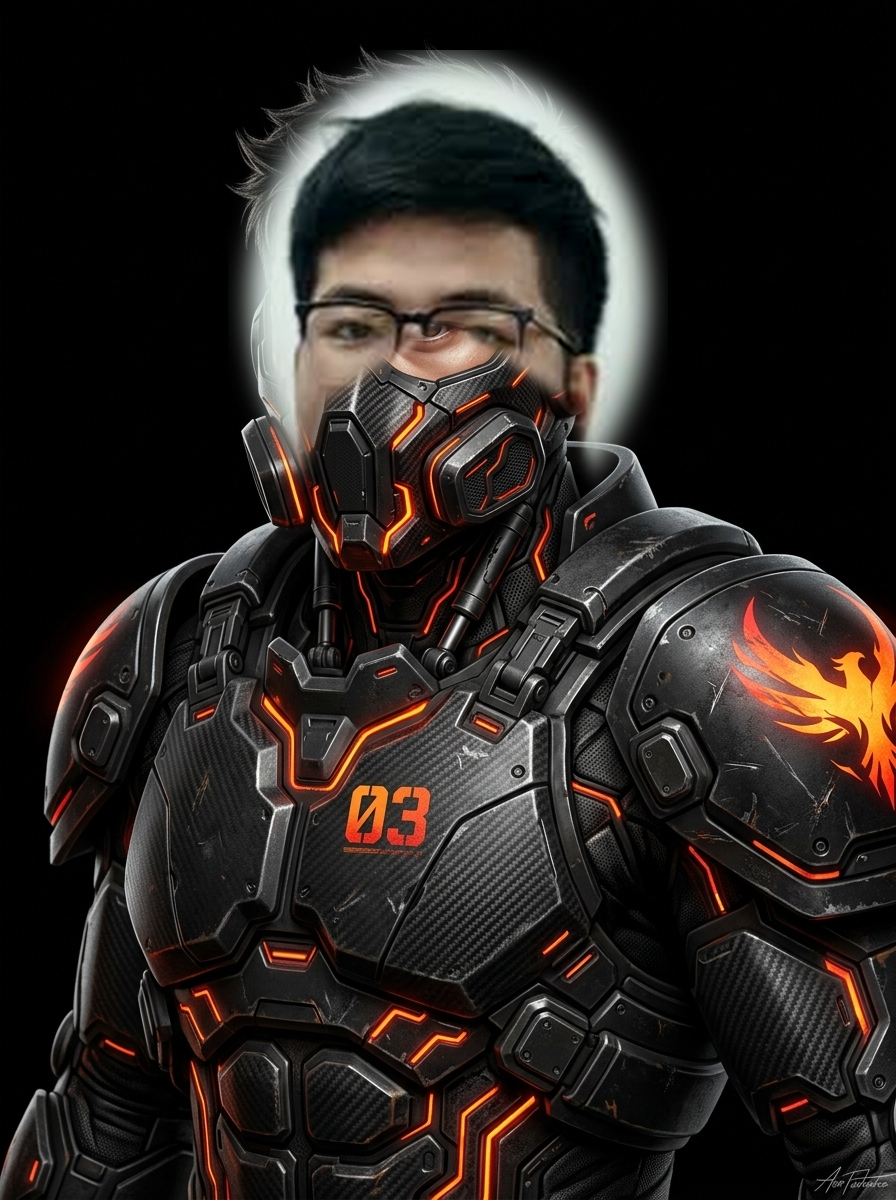
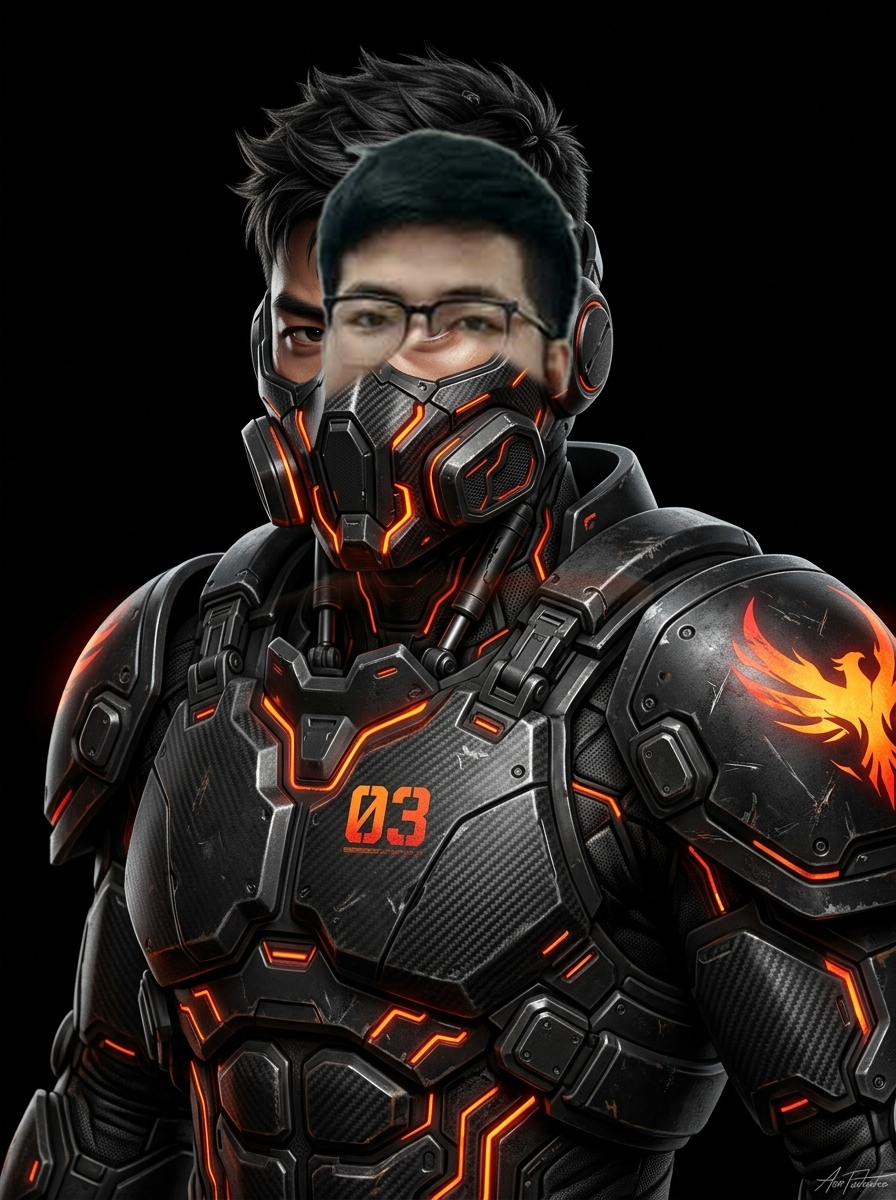
feat(portal): update Hoai Anh portrait with clean background segmentation and zero halo

Changed region(s): [[0.25, 0.0308, 0.75, 0.4008], [0.3438, 0.4625, 0.4375, 0.4933], [0.6875, 0.4625, 0.7188, 0.4933]]

diff --git a/View/src/components/portal/PortalMechaWarrior3DStage.vue b/View/src/components/portal/PortalMechaWarrior3DStage.vue
@@ -57,7 +57,7 @@ const pilots = [
     name: 'Phạm Ngọc Hoài Anh',
     callsign: 'DREADNOUGHT VORTEX',
     role: 'KỸ SƯ HẠ TẦNG ĐÁM MÂY & DEVOPS BẢO MẬT',
-    avatar: '/pilots/pilot_hoaianh_v2.jpg?v=2',
+    avatar: '/pilots/pilot_hoaianh_v3.jpg?v=3',
     cockpit: '/cockpits/cockpit_orange.jpg',
     cockpitFilter: 'none',
     color: '#ef4444', // Crimson Red
